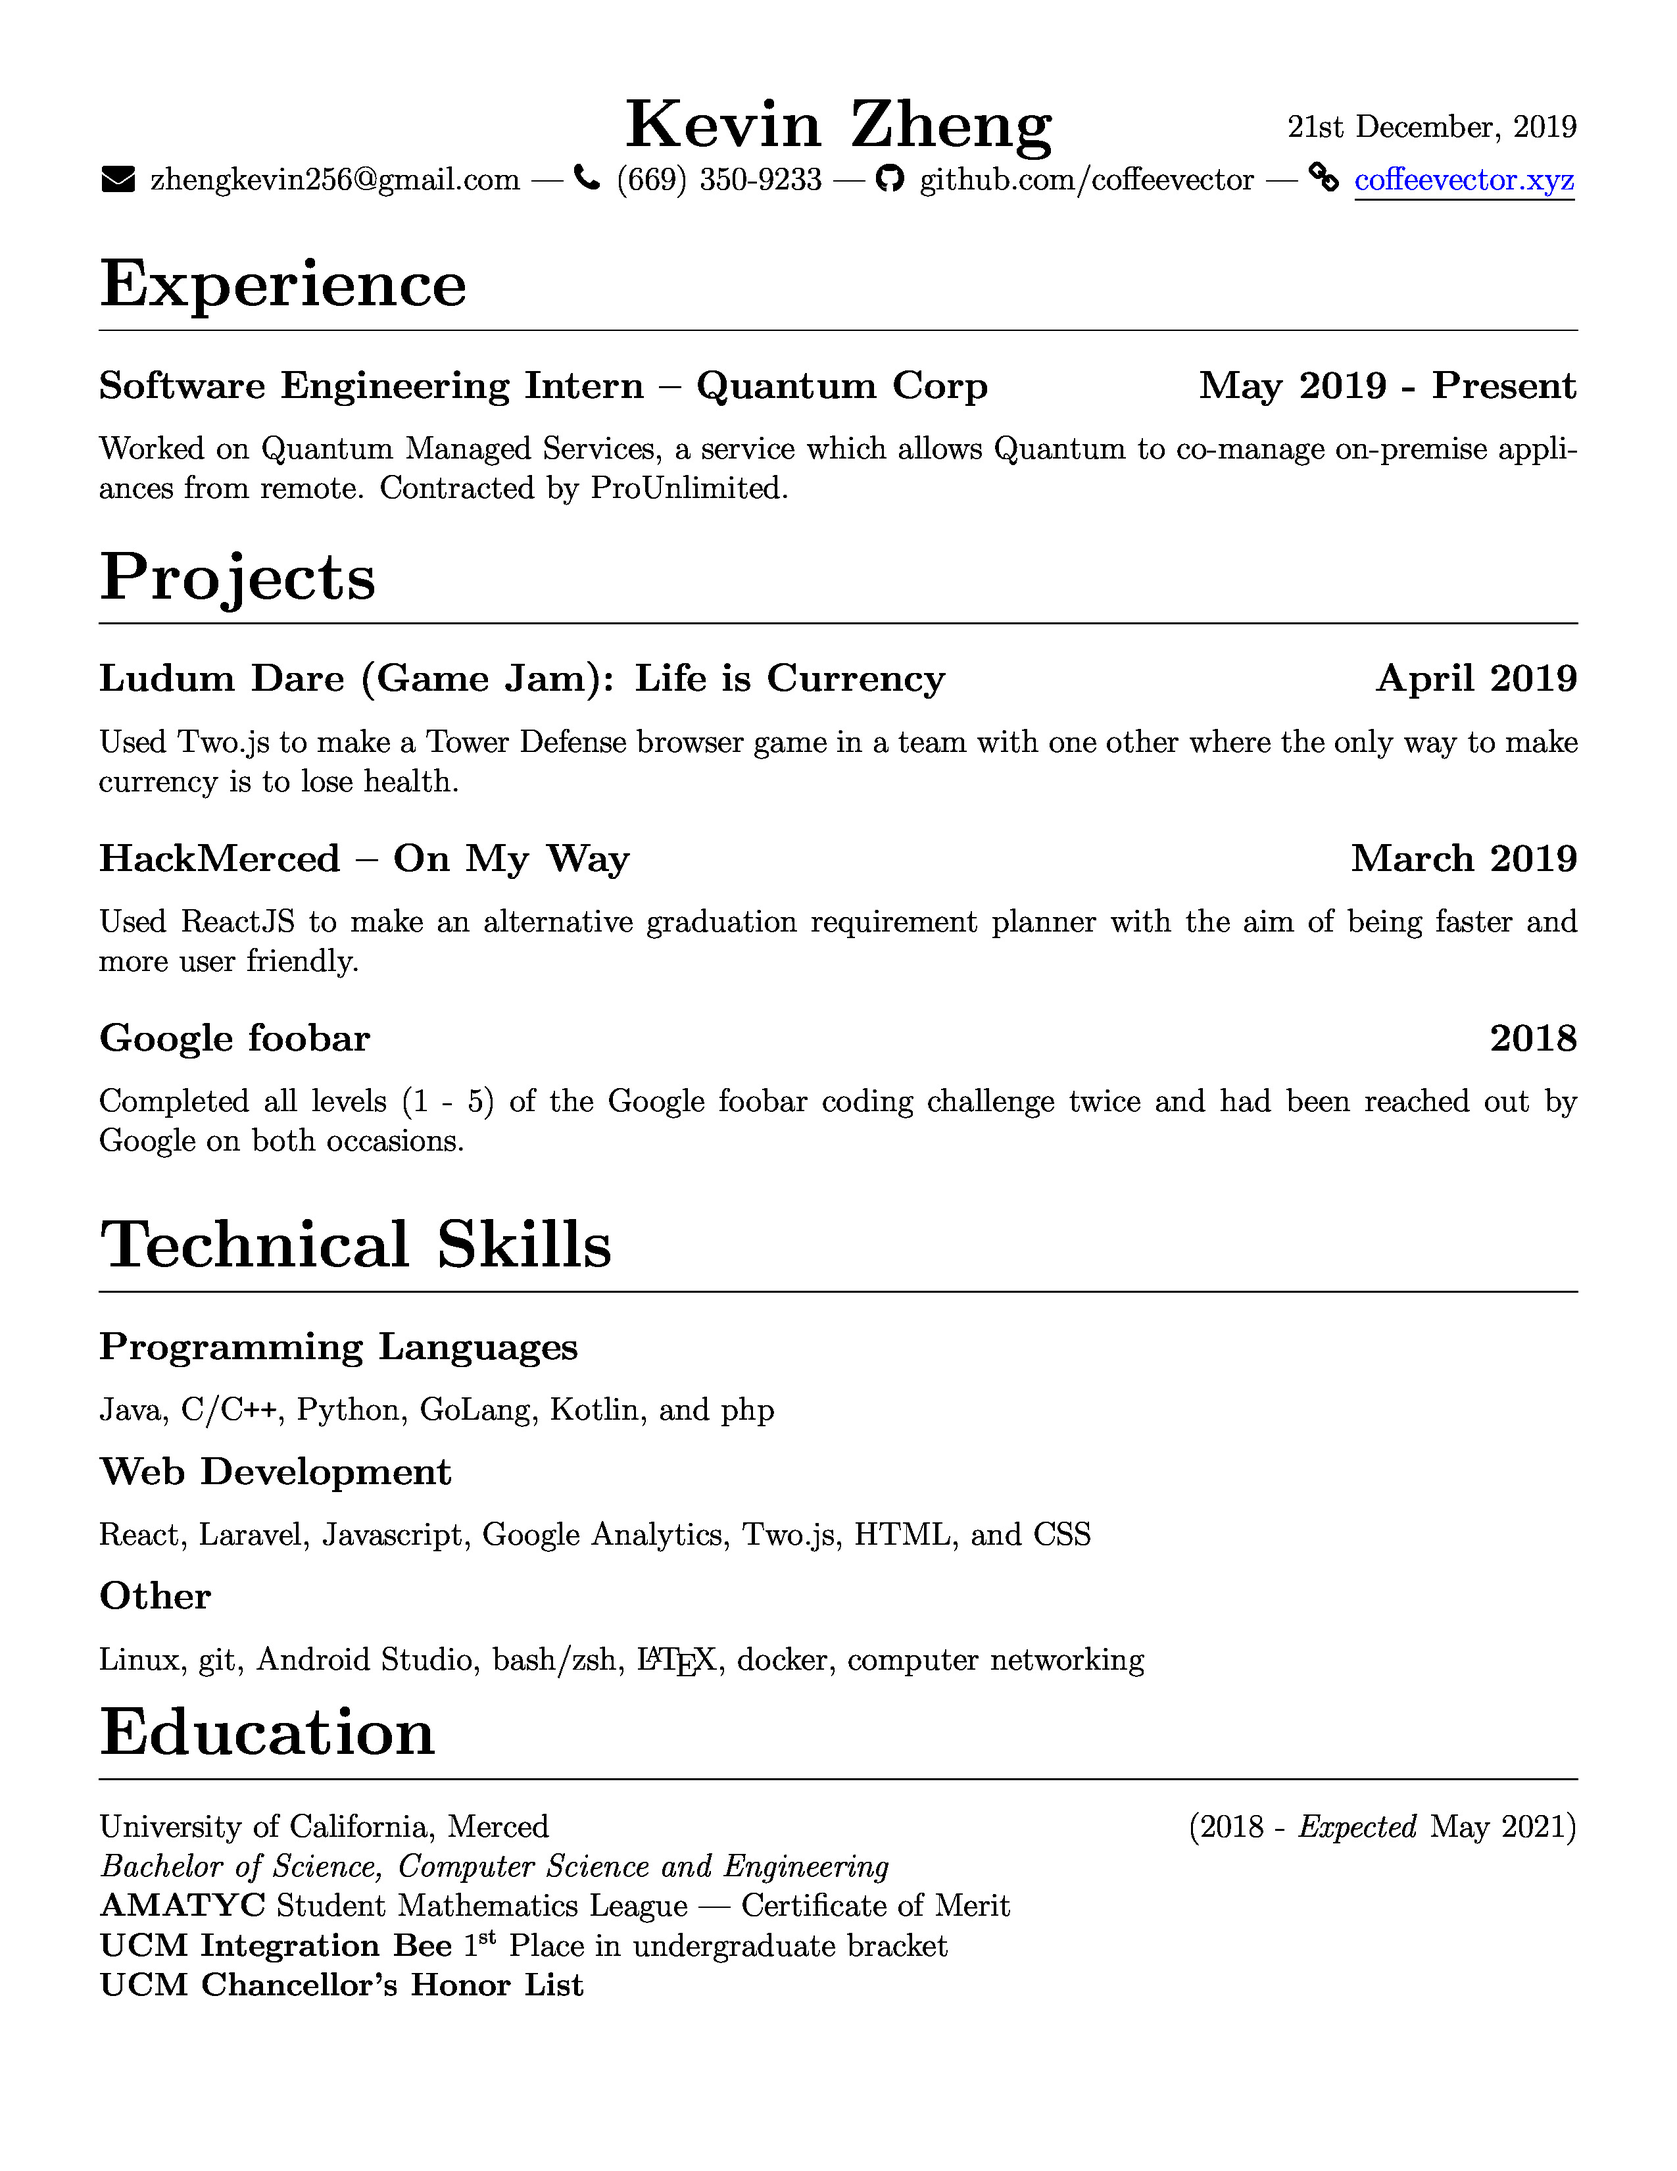
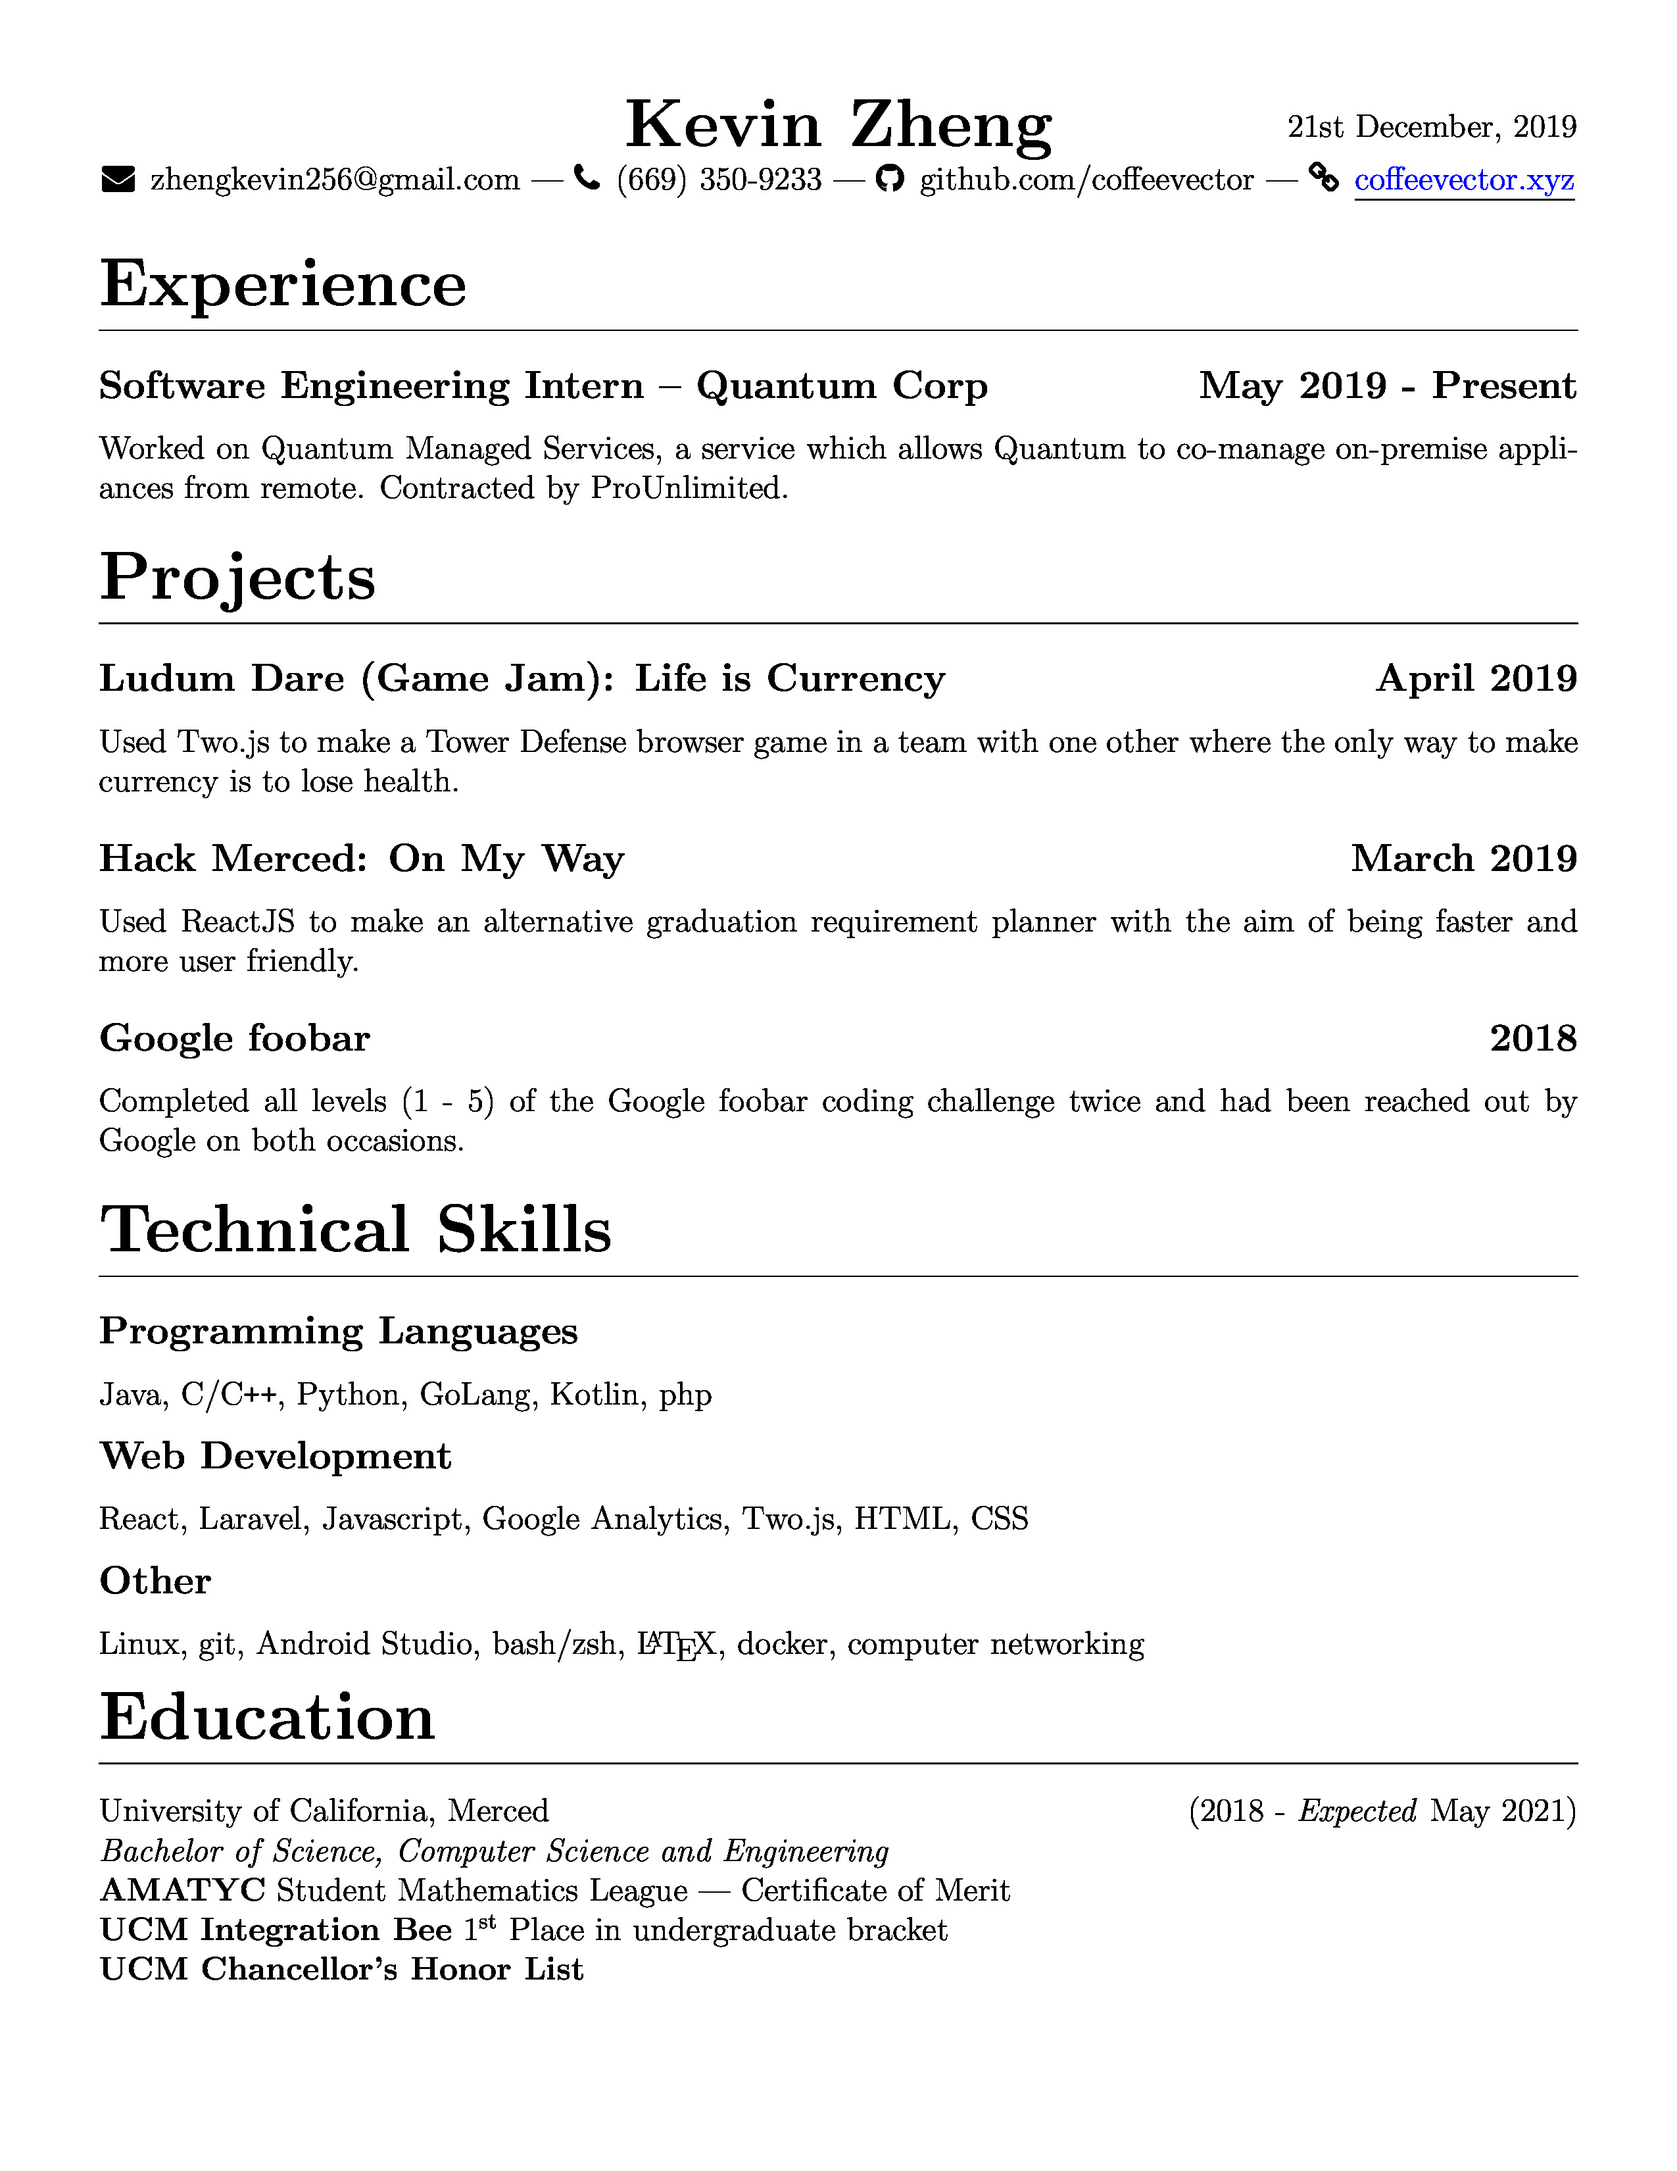
Uses jinja templating engine instead of subfiles

Changed region(s): [[0.062, 0.5618, 0.6816, 0.9364], [0.1239, 0.3745, 0.3718, 0.4058], [0.7125, 0.8115, 0.9294, 0.8427]]

diff --git a/resume.py b/resume.py
@@ -1,0 +1,74 @@
+#!/usr/bin/python3
+
+import jinja2
+import os
+from jinja2 import Template
+
+latex_jinja_env = jinja2.Environment(
+    block_start_string = '\BLOCK{',
+    block_end_string = '}',
+    variable_start_string = '\VAR{',
+    variable_end_string = '}',
+    comment_start_string = '\#{',
+    comment_end_string = '}',
+    line_statement_prefix = '%%',
+    line_comment_prefix = '%#',
+    trim_blocks = True,
+    autoescape = False,
+    loader = jinja2.FileSystemLoader(os.path.abspath('.'))
+)
+
+template = latex_jinja_env.get_template('resume-jinja.tex')
+
+experiences = [
+    {
+        "title": "Software Engineering Intern",
+        "organization": "Quantum Corp",
+        "date": "May 2019 - Present",
+        "description": """Worked on Quantum Managed Services, a service which allows Quantum to co-manage on-premise appliances from remote.
+Contracted by ProUnlimited."""
+    }
+]
+
+projects = [
+    {
+        "title": "Ludum Dare (Game Jam): Life is Currency",
+        "date": "April 2019",
+        "description": """Used Two.js to make a Tower Defense browser game in a team with one other where the only way to make currency is to lose health."""
+    },
+    {
+        "title": "Hack Merced: On My Way",
+        "date": "March 2019",
+        "description": """Used ReactJS to make an alternative graduation requirement planner with the aim of being faster and more user friendly."""
+    },
+    {
+        "title": "Google foobar",
+        "date": "2018",
+        "description": """Completed all levels (1 - 5) of the Google foobar coding challenge twice and had been reached out by Google on both occasions."""
+    }
+]
+
+skillsets = [
+    {
+        "name": "Programming Languages",
+        "skills": ["Java", "C/C\\verb!++!", "Python", "GoLang", "Kotlin", "php"]
+    },
+    {
+        "name": "Web Development",
+        "skills": ["React", "Laravel", "Javascript", "Google Analytics", "Two.js", "HTML", "CSS"]
+    },
+    {
+        "name": "Other",
+        "skills": ["Linux", "git", "Android Studio", "bash/zsh", "\LaTeX", "docker", "computer networking"]
+    }
+]
+
+for skillset in skillsets:
+    skillset["skills"] = ", ".join(skillset["skills"])
+
+with open('Resume.tex', 'w+') as f:
+    f.write(template.render(
+        experiences=experiences,
+        projects=projects,
+        skillsets=skillsets
+    ))

diff --git a/resume-jinja.tex b/resume-jinja.tex
@@ -24,30 +24,23 @@
 \begin{document}
 \maketitle
 \section{Experience}
-    \subsection{Software Engineering Intern -- Quantum Corp\null\hfill May 2019 - Present}
-    Worked on Quantum Managed Services, a service which allows Quantum to co-manage on-premise appliances from remote.
-Contracted by ProUnlimited.
+%% for experience in experiences:
+    \subsection{\VAR{experience.title} -- \VAR{experience.organization}\null\hfill \VAR{experience.date}}
+    \VAR{experience.description}
     \vspace*{-2mm}
+%% endfor
 \section{Projects}
-    \subsection{Ludum Dare (Game Jam): Life is Currency\null\hfill April 2019}
-    Used Two.js to make a Tower Defense browser game in a team with one other where the only way to make currency is to lose health.
+%% for project in projects:
+    \subsection{\VAR{project.title}\null\hfill \VAR{project.date}}
+    \VAR{project.description}
     \vspace*{-2mm}
-    \subsection{Hack Merced: On My Way\null\hfill March 2019}
-    Used ReactJS to make an alternative graduation requirement planner with the aim of being faster and more user friendly.
-    \vspace*{-2mm}
-    \subsection{Google foobar\null\hfill 2018}
-    Completed all levels (1 - 5) of the Google foobar coding challenge twice and had been reached out by Google on both occasions.
-    \vspace*{-2mm}
+%% endfor
 \section{Technical Skills}
-    \subsection{Programming Languages}
-    Java, C/C\verb!++!, Python, GoLang, Kotlin, php
+%% for skillset in skillsets:
+    \subsection{\VAR{skillset.name}}
+    \VAR{skillset.skills}
     \vspace*{-4mm}
-    \subsection{Web Development}
-    React, Laravel, Javascript, Google Analytics, Two.js, HTML, CSS
-    \vspace*{-4mm}
-    \subsection{Other}
-    Linux, git, Android Studio, bash/zsh, \LaTeX, docker, computer networking
-    \vspace*{-4mm}
+%% endfor
 \section{Education}
 University of California, Merced\null\hfill(2018 - \emph{Expected} May 2021)\\
            \emph{Bachelor of Science, Computer Science and Engineering}
